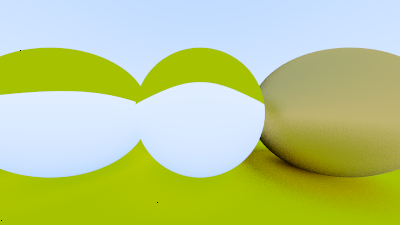
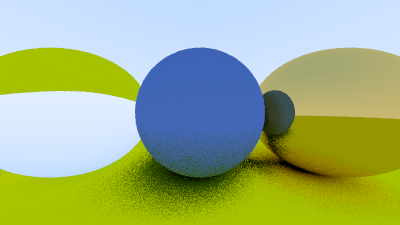
Allowed for internal reflection

Changed region(s): [[0.27, 0.1867, 1.0, 0.9644], [0.69, 0.28, 0.72, 0.3111], [0.12, 0.7778, 0.15, 0.8089]]

diff --git a/src/main.rs b/src/main.rs
@@ -10,9 +10,9 @@ fn main() {
     let mut world = HittableCollection::new();
 
     let matterial_ground = Rc::new(Lambertian::new(&vector![0.8,0.8,0.0]));
-    let matterial_center = Rc::new(Dielectric::new(1.5));
+    let matterial_center = Rc::new(Lambertian::new(&vector![0.1,0.2,0.5]));
     let matterial_left = Rc::new(Dielectric::new(1.5));
-    let matterial_right = Rc::new(Metal::new(&vector![0.8,0.6,0.2], 1.0));
+    let matterial_right = Rc::new(Metal::new(&vector![0.8,0.6,0.2], 0.0));
 
 
     world.push(Rc::new(Sphere::new(vector![0.0,0.0,-1.0], 0.5,  matterial_center )));
@@ -249,11 +249,11 @@ impl Camera {
         let pixel_start =
             viewport_start + 0.5 * (pixel_delta_u + pixel_delta_v);
 
-        let samples_per_pixel = 100;
+        let samples_per_pixel = 10;
 
         let rng = rand::thread_rng();
 
-        let max_depth = 50;
+        let max_depth = 10;
 
         Self {aspect_ratio, image_width, image_height, center, pixel_start, pixel_delta_u, pixel_delta_v, samples_per_pixel, rng, max_depth}
     }
@@ -445,9 +445,21 @@ impl Material for Dielectric {
         let refraction_ratio = if hit_record.front_face {1.0 / self.index_of_refraction} else {self.index_of_refraction};
 
         let unit_direction = vec_unit(&ray.direction);
-        let refracted = refract(&unit_direction, &hit_record.normal, refraction_ratio,1.0);
+        
+        let cos_theta = (-unit_direction.dot(&hit_record.normal)).min(1.0);
+        let sin_theta = (1.0 - cos_theta * cos_theta).sqrt();
 
-        *scattered = Ray::new(hit_record.point, refracted);
+        let cannot_refract = refraction_ratio * sin_theta > 1.0;
+        
+        let direction = 
+            if cannot_refract {
+                reflect(&unit_direction, &hit_record.normal)
+            } else {
+                refract(&unit_direction, &hit_record.normal, refraction_ratio, 1.0)
+            };
+        
+        *scattered = Ray::new(hit_record.point, direction);
+
         true
     }
 }
